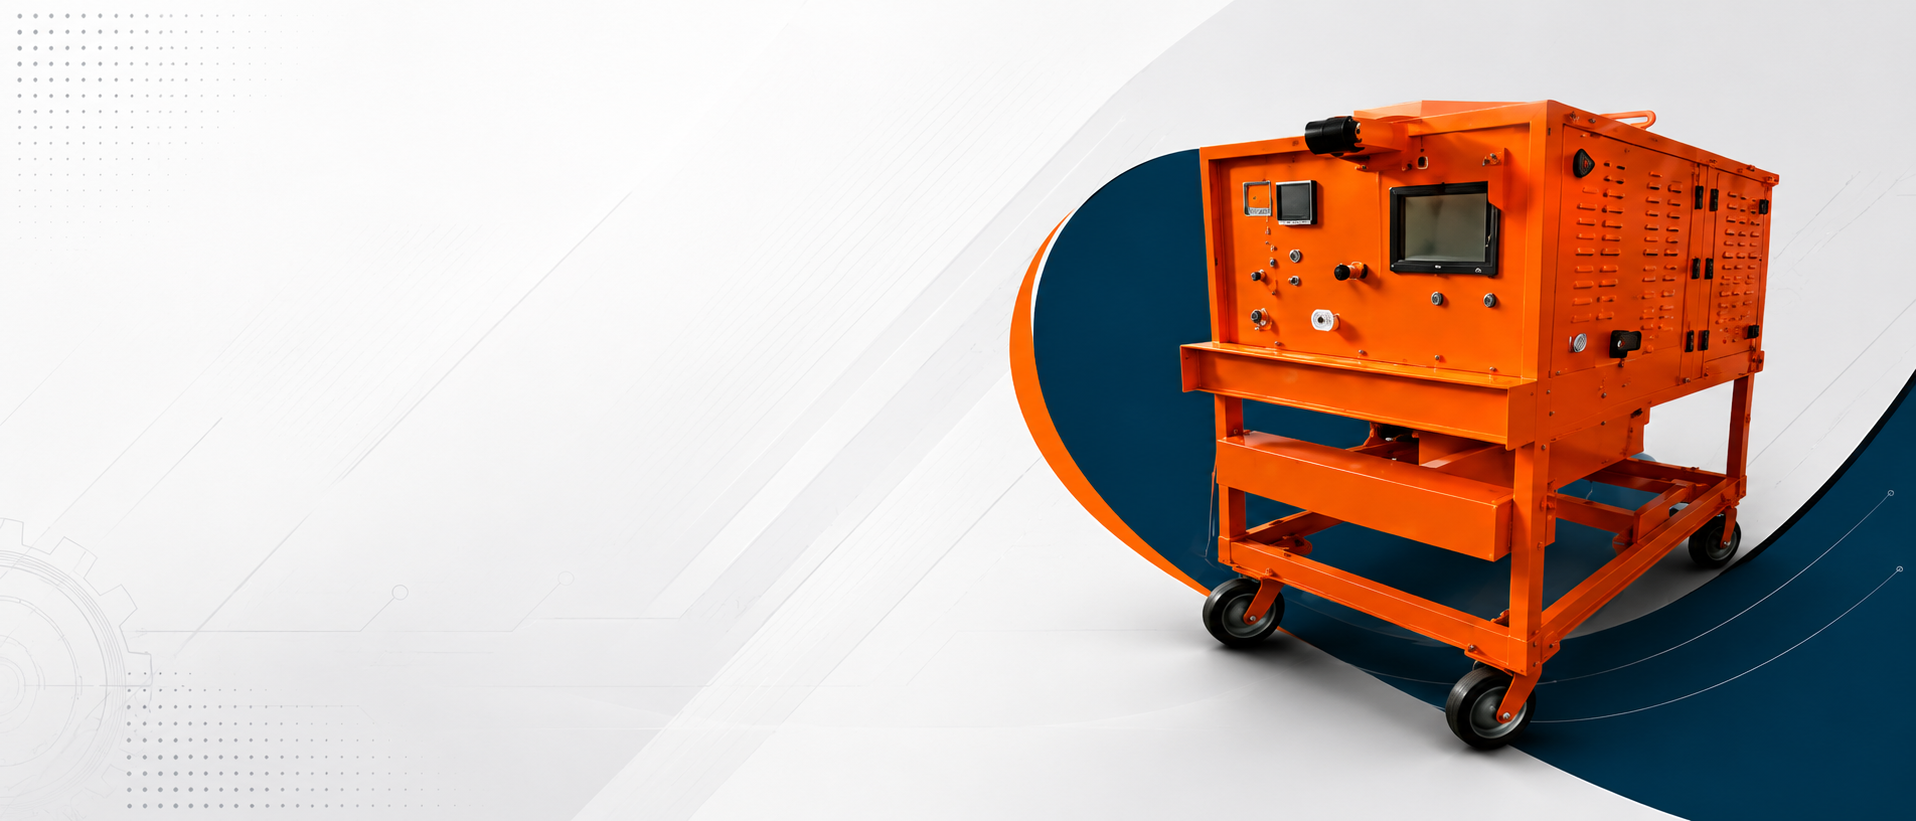
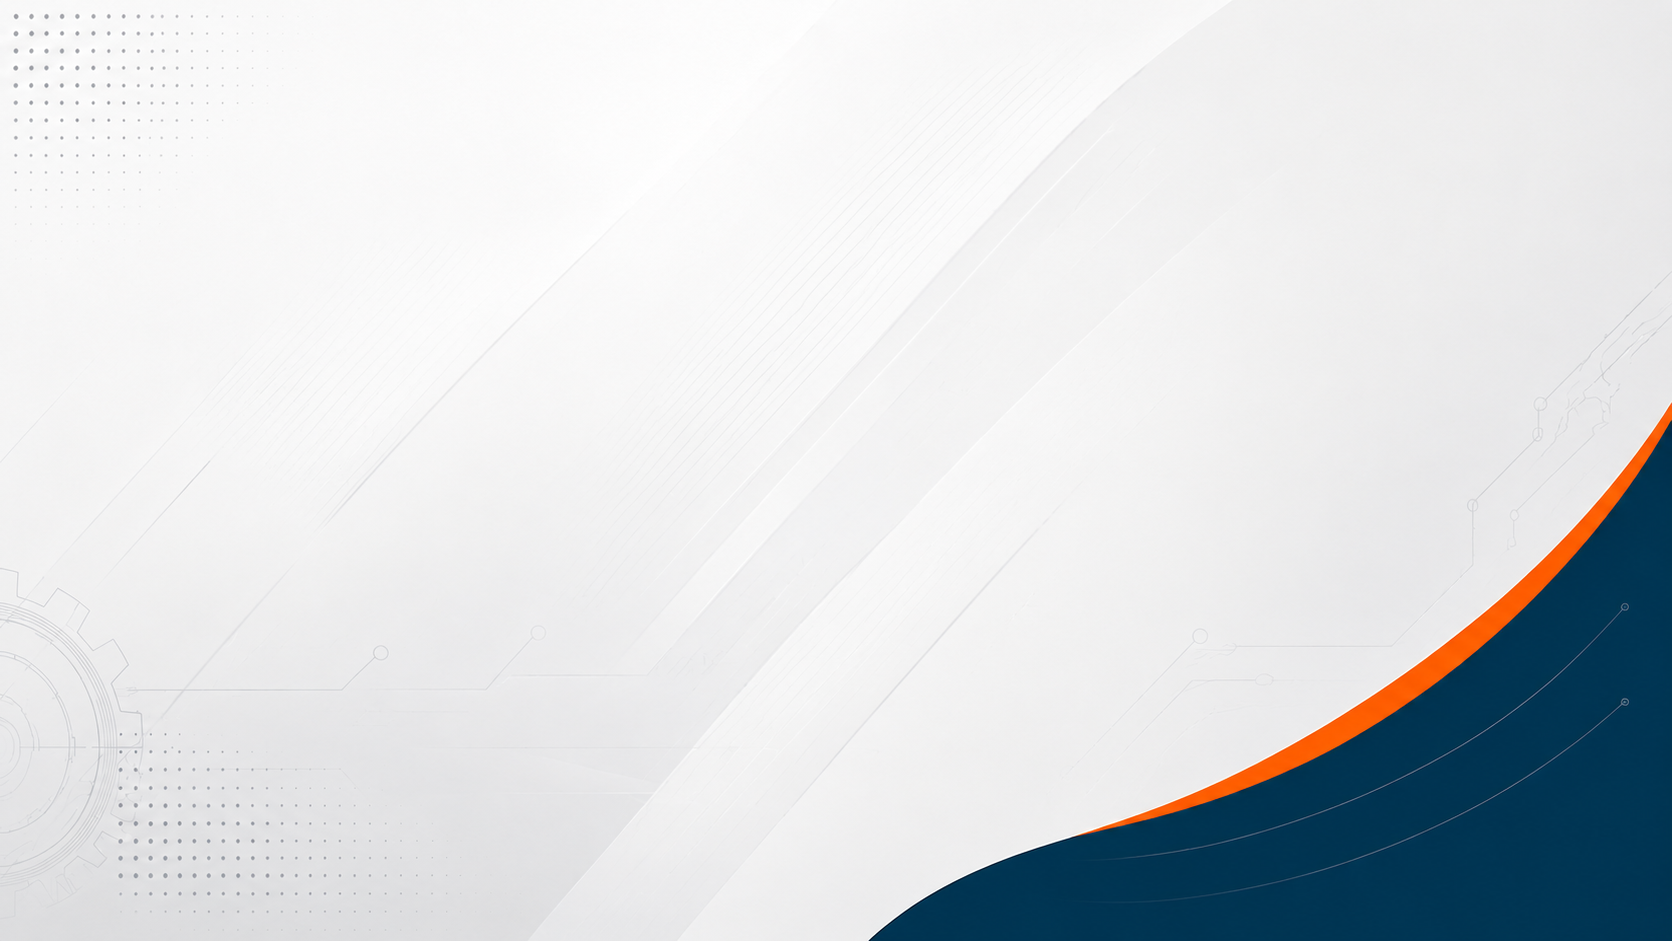
website

diff --git a/src/pageMarkup.js b/src/pageMarkup.js
@@ -76,77 +76,35 @@ const pageMarkup = `
   <main>
     <!-- ========== Hero Banner ========== -->
     <section class="hero" aria-label="One stop solution for SF6 Gas Handling">
-      <div class="hero-banner-track">
-        <div class="hero-banner-slide">
-          <div class="hero-bg" aria-hidden="true">
-            <img src="assets/banera/home1.png" alt="">
+      <div class="hero-bg" aria-hidden="true">
+        <img src="assets/banera/home1.png?v=20260729-bg" alt="">
+      </div>
+      <div class="hero-inner">
+        <div class="hero-copy">
+          <p class="eyebrow">Engineered for Safety. Built for Performance.</p>
+          <h1>
+            <span class="h1-line"><span class="h1-navy">One stop solution for</span></span>
+            <span class="h1-line"><span class="h1-orange"><span class="sf6-mark">SF<span class="sf6-mark-six">6</span></span> Gas Handling</span></span>
+          </h1>
+          <p class="copy">Precision engineered solutions for safe, efficient and reliable handling of SF6 gas in power and electrical infrastructure.</p>
+          <div class="hero-actions">
+            <a class="btn btn-primary" href="pages/prodcut.html">Explore Products <svg viewBox="0 0 24 24" aria-hidden="true"><path d="m9 18 6-6-6-6"/></svg></a>
+            <a class="btn btn-outline" href="#">Request a Quote <svg viewBox="0 0 24 24" aria-hidden="true"><path d="m9 18 6-6-6-6"/></svg></a>
           </div>
-          <div class="hero-inner">
-            <div class="hero-copy">
-              <p class="eyebrow">Engineered for Safety. Built for Performance.</p>
-              <h1>
-                <span class="h1-line"><span class="h1-navy">One stop solution for</span></span>
-                <span class="h1-line"><span class="h1-orange"><span class="sf6-mark">SF<span class="sf6-mark-six">6</span></span> Gas Handling</span></span>
-              </h1>
-              <p class="copy">Precision engineered solutions for safe, efficient and reliable handling of SF6 gas in power and electrical infrastructure.</p>
-              <div class="hero-actions">
-                <a class="btn btn-primary" href="pages/prodcut.html">Explore Products <svg viewBox="0 0 24 24" aria-hidden="true"><path d="m9 18 6-6-6-6"/></svg></a>
-                <a class="btn btn-outline" href="#">Request a Quote <svg viewBox="0 0 24 24" aria-hidden="true"><path d="m9 18 6-6-6-6"/></svg></a>
-              </div>
-              <div class="hero-points">
-                <span><svg viewBox="0 0 24 24" aria-hidden="true"><circle cx="12" cy="12" r="10"/><path d="m9 12 2 2 4-5"/></svg> Reliable Performance</span>
-                <span><svg viewBox="0 0 24 24" aria-hidden="true"><circle cx="12" cy="12" r="10"/><path d="m9 12 2 2 4-5"/></svg> Global Standards</span>
-                <span><svg viewBox="0 0 24 24" aria-hidden="true"><circle cx="12" cy="12" r="10"/><path d="m9 12 2 2 4-5"/></svg> Trusted by Experts</span>
-              </div>
-            </div>
+          <div class="hero-points">
+            <span><svg viewBox="0 0 24 24" aria-hidden="true"><circle cx="12" cy="12" r="10"/><path d="m9 12 2 2 4-5"/></svg> Reliable Performance</span>
+            <span><svg viewBox="0 0 24 24" aria-hidden="true"><circle cx="12" cy="12" r="10"/><path d="m9 12 2 2 4-5"/></svg> Global Standards</span>
+            <span><svg viewBox="0 0 24 24" aria-hidden="true"><circle cx="12" cy="12" r="10"/><path d="m9 12 2 2 4-5"/></svg> Trusted by Experts</span>
           </div>
         </div>
-        <div class="hero-banner-slide" aria-hidden="true">
-          <div class="hero-bg" aria-hidden="true">
-            <img src="assets/banera/home1.png" alt="">
-          </div>
-          <div class="hero-inner">
-            <div class="hero-copy">
-              <p class="eyebrow">Engineered for Safety. Built for Performance.</p>
-              <h1>
-                <span class="h1-line"><span class="h1-navy">One stop solution for</span></span>
-                <span class="h1-line"><span class="h1-orange"><span class="sf6-mark">SF<span class="sf6-mark-six">6</span></span> Gas Handling</span></span>
-              </h1>
-              <p class="copy">Precision engineered solutions for safe, efficient and reliable handling of SF6 gas in power and electrical infrastructure.</p>
-              <div class="hero-actions">
-                <a class="btn btn-primary" href="pages/prodcut.html">Explore Products <svg viewBox="0 0 24 24" aria-hidden="true"><path d="m9 18 6-6-6-6"/></svg></a>
-                <a class="btn btn-outline" href="#">Request a Quote <svg viewBox="0 0 24 24" aria-hidden="true"><path d="m9 18 6-6-6-6"/></svg></a>
-              </div>
-              <div class="hero-points">
-                <span><svg viewBox="0 0 24 24" aria-hidden="true"><circle cx="12" cy="12" r="10"/><path d="m9 12 2 2 4-5"/></svg> Reliable Performance</span>
-                <span><svg viewBox="0 0 24 24" aria-hidden="true"><circle cx="12" cy="12" r="10"/><path d="m9 12 2 2 4-5"/></svg> Global Standards</span>
-                <span><svg viewBox="0 0 24 24" aria-hidden="true"><circle cx="12" cy="12" r="10"/><path d="m9 12 2 2 4-5"/></svg> Trusted by Experts</span>
-              </div>
-            </div>
-          </div>
-        </div>
-        <div class="hero-banner-slide" aria-hidden="true">
-          <div class="hero-bg" aria-hidden="true">
-            <img src="assets/banera/home1.png" alt="">
-          </div>
-          <div class="hero-inner">
-            <div class="hero-copy">
-              <p class="eyebrow">Engineered for Safety. Built for Performance.</p>
-              <h1>
-                <span class="h1-line"><span class="h1-navy">One stop solution for</span></span>
-                <span class="h1-line"><span class="h1-orange"><span class="sf6-mark">SF<span class="sf6-mark-six">6</span></span> Gas Handling</span></span>
-              </h1>
-              <p class="copy">Precision engineered solutions for safe, efficient and reliable handling of SF6 gas in power and electrical infrastructure.</p>
-              <div class="hero-actions">
-                <a class="btn btn-primary" href="pages/prodcut.html">Explore Products <svg viewBox="0 0 24 24" aria-hidden="true"><path d="m9 18 6-6-6-6"/></svg></a>
-                <a class="btn btn-outline" href="#">Request a Quote <svg viewBox="0 0 24 24" aria-hidden="true"><path d="m9 18 6-6-6-6"/></svg></a>
-              </div>
-              <div class="hero-points">
-                <span><svg viewBox="0 0 24 24" aria-hidden="true"><circle cx="12" cy="12" r="10"/><path d="m9 12 2 2 4-5"/></svg> Reliable Performance</span>
-                <span><svg viewBox="0 0 24 24" aria-hidden="true"><circle cx="12" cy="12" r="10"/><path d="m9 12 2 2 4-5"/></svg> Global Standards</span>
-                <span><svg viewBox="0 0 24 24" aria-hidden="true"><circle cx="12" cy="12" r="10"/><path d="m9 12 2 2 4-5"/></svg> Trusted by Experts</span>
-              </div>
-            </div>
+        <div class="hero-product-carousel" aria-hidden="true">
+          <div class="hero-product-track">
+            <div class="hero-product-slide"><img src="assets/products/SF6 Gas Recovery &amp; Transfer Units/SFX3000C.png" alt=""></div>
+            <div class="hero-product-slide"><img src="assets/products/SF6 Gas Recovery &amp; Transfer Units/SFX2000C.png" alt=""></div>
+            <div class="hero-product-slide"><img src="assets/products/SF6 Gas Recovery &amp; Transfer Units/SFX1400C.png" alt=""></div>
+            <div class="hero-product-slide"><img src="assets/products/SF6 Gas Recovery &amp; Transfer Units/SFX-12C T300.png" alt=""></div>
+            <div class="hero-product-slide"><img src="assets/products/SF6 Gas Recovery &amp; Transfer Units/EVAF-001.png" alt=""></div>
+            <div class="hero-product-slide"><img src="assets/products/SF6 Gas Recovery &amp; Transfer Units/EVAF-002.png" alt=""></div>
           </div>
         </div>
       </div>

diff --git a/style.css b/style.css
@@ -5671,3 +5671,154 @@ svg {
     transition: none !important;
   }
 }
+
+/* Home hero: fixed banner with product image carousel on the right */
+.app-shell:not(.product-page-shell) .hero {
+  min-height: clamp(600px, 52vw, 740px);
+  background: #f8fbfc;
+}
+
+.app-shell:not(.product-page-shell) .hero-bg img {
+  content: url("assets/banera/home1.png?v=20260729-bg");
+  object-fit: cover;
+  object-position: center right;
+  filter: none;
+}
+
+.app-shell:not(.product-page-shell) .hero-banner-track {
+  width: 100%;
+  animation: none;
+}
+
+.app-shell:not(.product-page-shell) .hero-inner {
+  display: grid;
+  grid-template-columns: minmax(460px, 0.95fr) minmax(440px, 0.9fr);
+  align-items: center;
+  gap: clamp(28px, 4vw, 72px);
+}
+
+.app-shell:not(.product-page-shell) .hero-copy {
+  position: relative;
+  z-index: 2;
+}
+
+.hero-product-carousel {
+  position: relative;
+  z-index: 2;
+  justify-self: end;
+  width: min(640px, 48vw);
+  aspect-ratio: 1;
+  overflow: hidden;
+  border-radius: 0;
+  background: transparent;
+  border: 0;
+  box-shadow: none;
+  margin-right: clamp(34px, 5vw, 96px);
+  -webkit-mask-image: linear-gradient(90deg, transparent 0%, #000 10%, #000 90%, transparent 100%);
+  mask-image: linear-gradient(90deg, transparent 0%, #000 10%, #000 90%, transparent 100%);
+}
+
+.hero-product-carousel::before {
+  display: none;
+}
+
+.hero-product-track {
+  position: relative;
+  z-index: 1;
+  display: flex;
+  width: 600%;
+  height: 100%;
+  animation: heroProductSlide 18s ease-in-out infinite;
+}
+
+.hero-product-slide {
+  flex: 0 0 16.6667%;
+  display: grid;
+  place-items: center;
+  padding: clamp(2px, 0.6vw, 10px);
+  border: 0;
+  outline: 0;
+  background: transparent;
+}
+
+.hero-product-slide img {
+  width: 108%;
+  height: 108%;
+  object-fit: contain;
+  border: 0;
+  outline: 0;
+  background: transparent;
+  box-shadow: none;
+  filter: drop-shadow(0 28px 30px rgba(8, 42, 60, 0.26));
+}
+
+@keyframes heroProductSlide {
+  0%,
+  12% {
+    transform: translateX(0);
+  }
+
+  17%,
+  29% {
+    transform: translateX(-16.6667%);
+  }
+
+  34%,
+  46% {
+    transform: translateX(-33.3334%);
+  }
+
+  51%,
+  63% {
+    transform: translateX(-50.0001%);
+  }
+
+  68%,
+  80% {
+    transform: translateX(-66.6668%);
+  }
+
+  85%,
+  97% {
+    transform: translateX(-83.3335%);
+  }
+
+  100% {
+    transform: translateX(0);
+  }
+}
+
+@media (prefers-reduced-motion: reduce) {
+  .hero-product-track {
+    animation: none;
+  }
+}
+
+@media (max-width: 1100px) {
+  .app-shell:not(.product-page-shell) .hero-inner {
+    grid-template-columns: minmax(0, 1fr);
+  }
+
+  .hero-product-carousel {
+    justify-self: start;
+    width: min(460px, 82vw);
+    margin-left: clamp(16px, 3vw, 32px);
+    margin-right: 0;
+  }
+}
+
+@media (max-width: 640px) {
+  .app-shell:not(.product-page-shell) .hero {
+    min-height: 0;
+  }
+
+  .hero-product-carousel {
+    width: min(100%, 360px);
+    margin: 8px auto 0;
+    border-radius: 0;
+  }
+
+  .hero-product-slide {
+    padding: 20px;
+  }
+}
